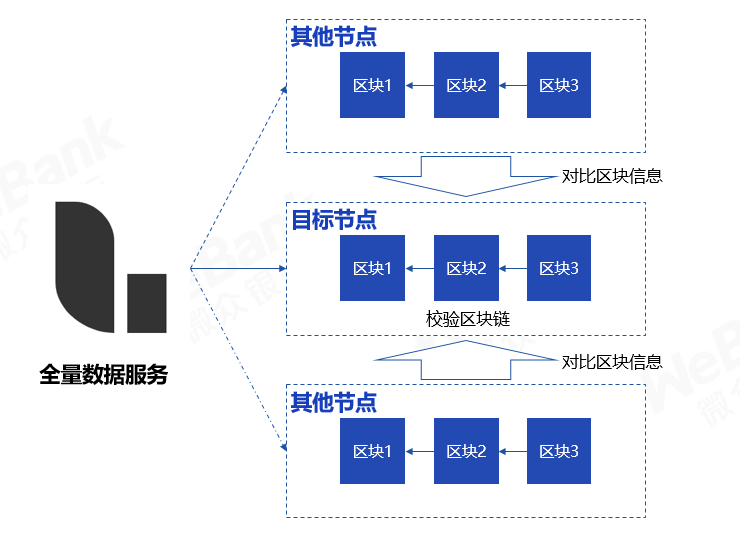
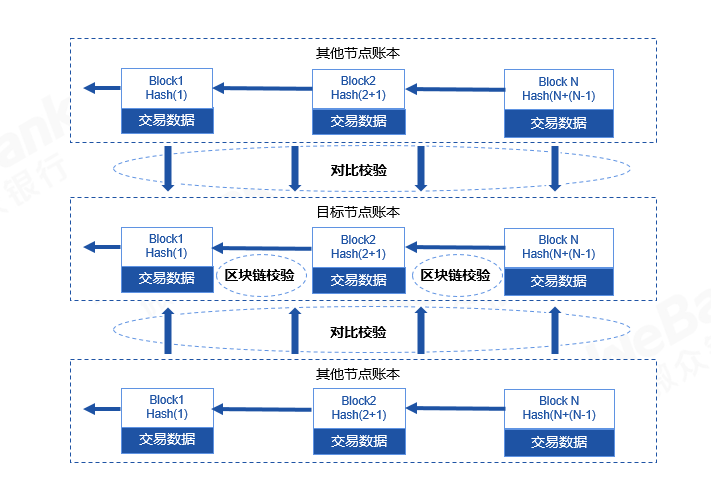
.

diff --git a/docs/WeBase-ETL-Bee/intro.md b/docs/WeBase-ETL-Bee/intro.md
@@ -7,7 +7,7 @@
 全量数据服务拥有将节点账本完整备份到第三方存储的能力，从而可以满足多方面的需求。首先，有了完整的第三方备份，节点就可以清理掉不必要的账本信息，为磁盘腾出出空间。此外，该备份是和节点自身的账本数据高度兼容的，通过将全量备份连接到节点存储模块，实现节点账本的“神同步”，可以应用于节点迁移等场景。最后，全量备份采用关系型数据库存储，从而满足多样化的查询需求。
 ![](picture/backup.png)
 ### 2）多维度账本校验
-全量数据服务在读取某节点的日志后，会进行多重校验，以防止节点账本信息被损害、被篡改、共识系统异常等情况。检测是多维度的，整体可分为对比校验和链式校验。对比校验是指全量数据服务会拉取多个节点的账本对比其内容，账本信息一致后才可以入库；链式校验是指对账本数据本身的校验，例如区块之间按哈希构建成链、区块签名合法、交易状态根一致等。
+全量数据服务在读取某节点的日志后，会进行多重校验，以防止节点账本信息被损害、被篡改、共识系统异常等情况。检测是多维度的，整体可分为对比校验和区块链校验。对比校验是指全量数据服务会拉取多个节点的账本对比其内容，账本信息一致后才可以入库；区块链校验是指对账本数据的校验，例如区块之间按哈希构建成链、区块签名合法、交易状态根一致等。
 ![](picture/verify.png)
 ### 3）备份数据可信存储
 每次处理完成一个区块，全量数据服务都会为此时刻的全量备份生成一个哈希值作为检查点。该检查点用于为存储增信，适用于全量备份库之间的校验等场景。例如比如不同机构生成了各自的全量备份，现在想比对各自备份数据是否一致，只需要提取出最新区块高度的检查点进行比对，如果一致，则表示备份内容完全相同；如果不一致，可以通过二分查找的方式找到不一样的区块，以进一步分析差异。
